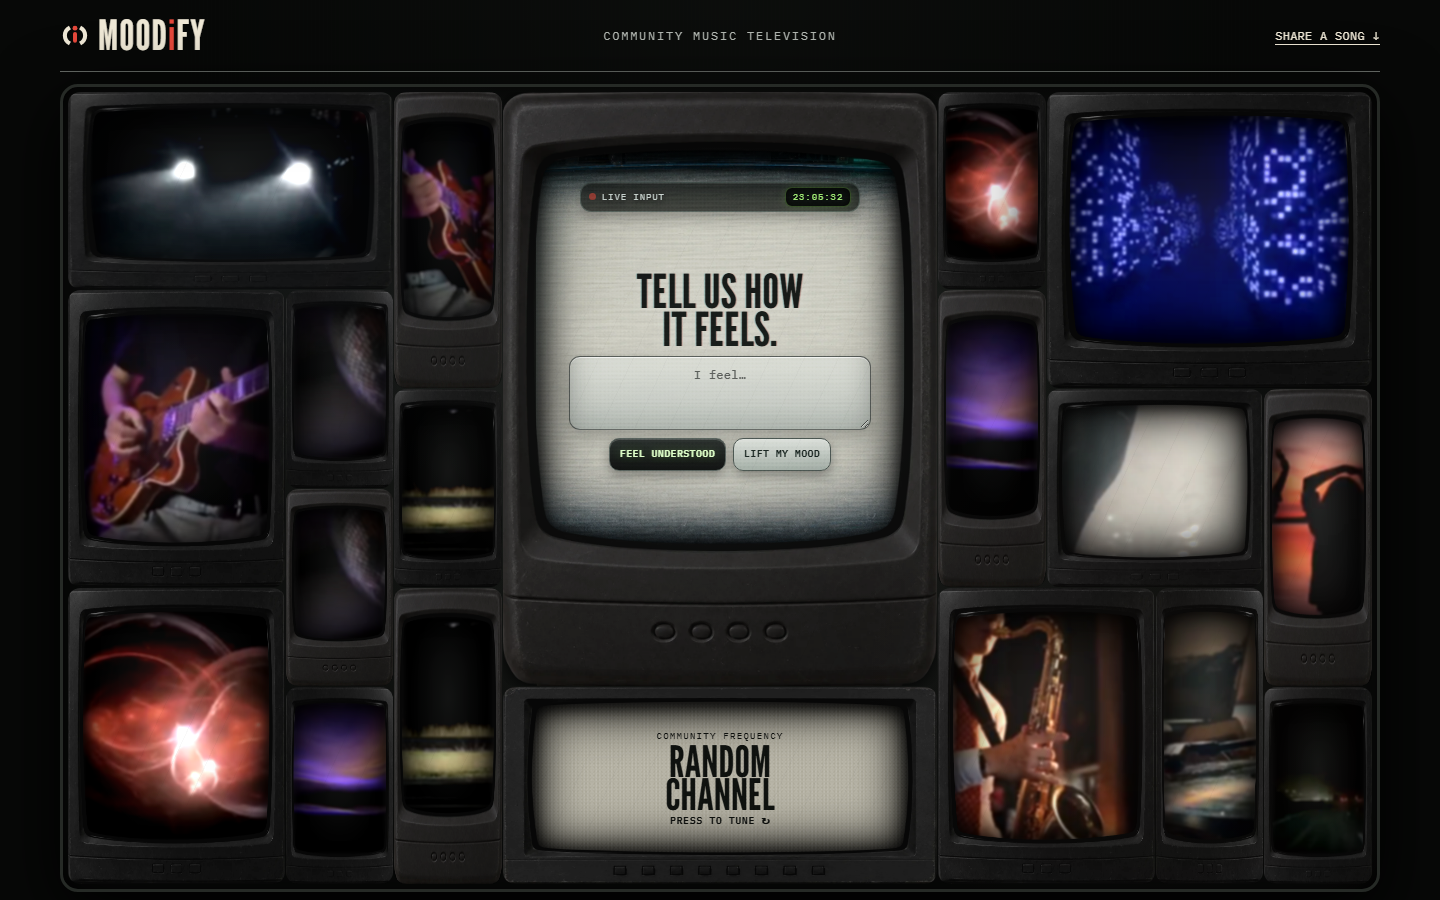
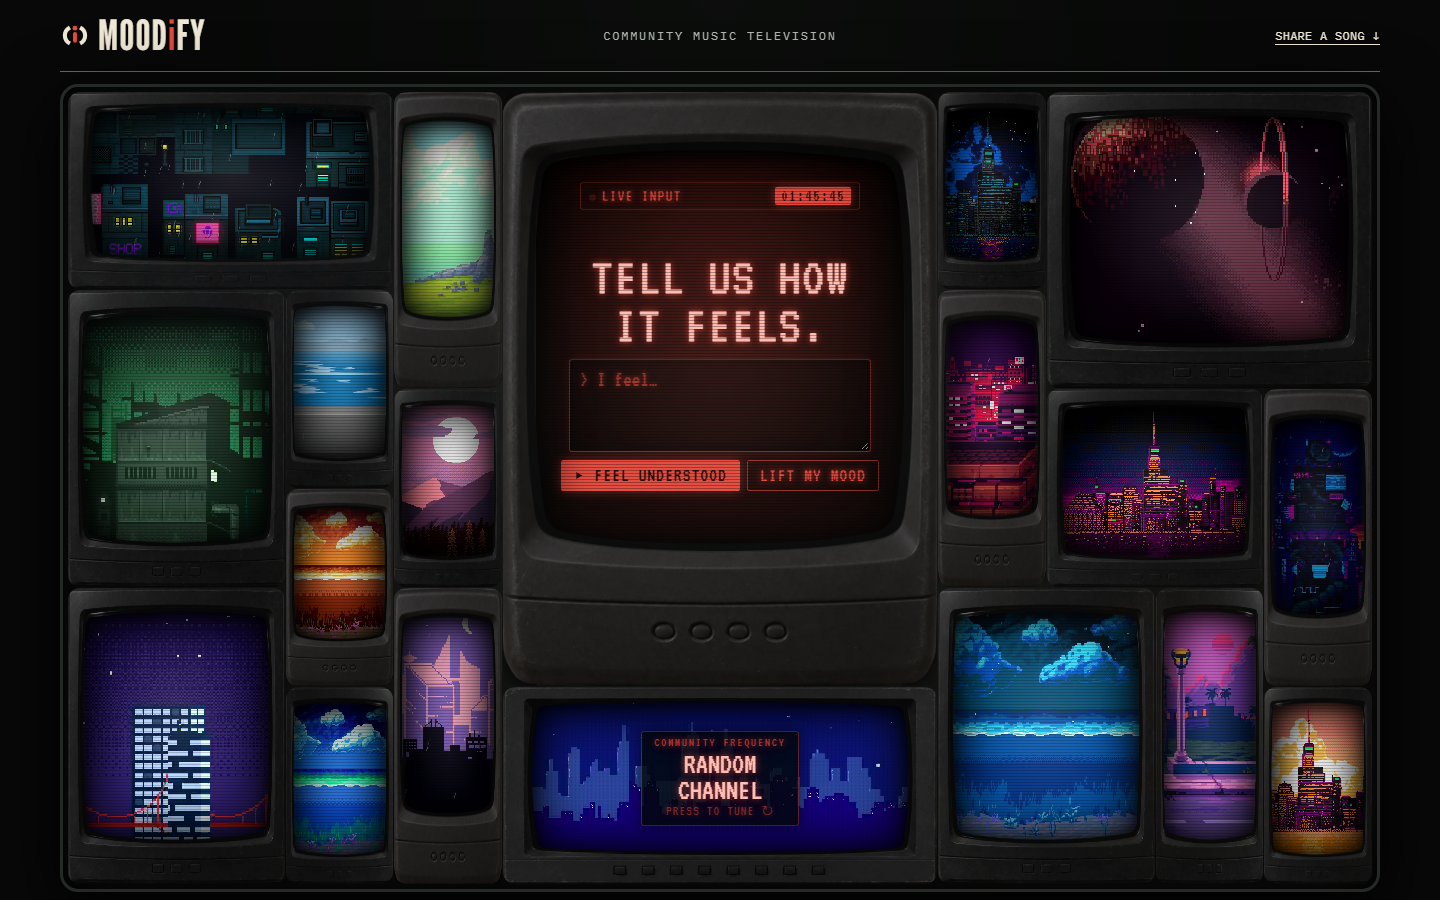
Update README for the pixel-art wall, phone layout and free model
Adds a section on the TV wall with a phone screenshot, describes the one-card phone form and the 10-second free-model cap, refreshes the screenshots and drops the History section.

diff --git a/README.md b/README.md
@@ -6,9 +6,9 @@
 
 Live at **[moodify.eshita.dev](https://moodify.eshita.dev)**
 
-MoodIfy is community music television. People share a song by pasting a link (YouTube, Spotify, SoundCloud or anywhere else), flip the tape and write what the song holds for them. When you describe how you feel, MoodIfy reads your mood and finds the shared song whose note fits your words best. You can ask to *feel understood* (same mood) or to *lift your mood* (a gentler mood one step away).
+MoodIfy is community music television. People share a song by pasting a link (YouTube, Spotify, SoundCloud or anywhere else) and writing what the song holds for them. When you describe how you feel, MoodIfy reads your mood and finds the shared song whose note fits your words best. You can ask to *feel understood* (same mood) or to *lift your mood* (a gentler mood one step away).
 
-![The MoodIfy TV wall: a check-in screen surrounded by sets playing music clips](docs/screenshot.png)
+![The MoodIfy TV wall: a red terminal check-in screen surrounded by sets playing animated pixel-art scenes](docs/screenshot.png)
 
 ## How it works
 
@@ -21,7 +21,7 @@ your text ──► crisis check ──► mood reader ──► target mood ─
           (never sent to a model)
 ```
 
-1. **Mood reader.** An OpenRouter model labels the text with one of nine moods (joyful, sad, anxious, angry, lonely, drained, nostalgic, calm, hopeful). Its answer is checked against that fixed list. No key, a timeout, bad JSON or an unknown label all fall back to an offline keyword reader, so the app always answers.
+1. **Mood reader.** A free OpenRouter model labels the text with one of nine moods (joyful, sad, anxious, angry, lonely, drained, nostalgic, calm, hopeful). Its answer is checked against that fixed list. No key, bad JSON, an unknown label or no answer within 10 seconds all fall back to an offline keyword reader, so the app always answers quickly. Fallbacks are logged with their reason, never with the person's text.
 2. **Retrieval.** Songs are filtered to the target mood, then ranked by TF-IDF cosine similarity between your text and each note. "Can't sleep, mind racing at 2am" finds the note written about 2am anxiety, not just any anxious song. Community songs win ties over starter ones, and you won't see the same one twice until the pool runs out.
 3. **Safety first.** Text that mentions self-harm or suicide is never sent to a model. The response leads with a support message and free helplines (Tele-MANAS 14416 in India, findahelpline.com elsewhere).
 
@@ -29,7 +29,7 @@ your text ──► crisis check ──► mood reader ──► target mood ─
 
 ![Side A of the cassette: paste a song link, then flip the tape](docs/share.png)
 
-Side A takes the link, side B the message and an optional name. The link is checked before anything is saved: https only, no passwords in the URL, no IP addresses or localhost. Known music sites are labelled by name, and anything else shows its domain so people can see where a link goes before clicking it. Titles and artists come from each site's public oEmbed endpoint, so nobody has to type them.
+On desktop, side A of the cassette takes the link and side B the message and an optional name. On phones the flip would be cramped, so both sides become one card.  The link is checked before anything is saved: https only, no passwords in the URL, no IP addresses or localhost. Known music sites are labelled by name, and anything else shows its domain so people can see where a link goes before clicking it. Titles and artists come from each site's public oEmbed endpoint, so nobody has to type them.
 
 Every message then goes through layered moderation before it can reach the public wall:
 
@@ -46,6 +46,12 @@ In production `MOODIFY_REQUIRE_MODERATION=1` holds every message if the model ke
 
 A new community app is empty on day one, so MoodIfy ships with **200 starter songs** across all nine moods: Bollywood and Indian indie, K-pop and J-pop, Latin, Afrobeats, French, Pakistani and Brazilian classics, and indie from Mitski to Men I Trust. Each has a short note on when it helps, and they are labelled "MoodIfy starter set" in the API. They are used for matching but never shown on the community wall.
 
+## The TV wall
+
+The wall plays twenty animated pixel-art scenes, all CC0 art from OpenGameArt. `scripts/render_pixel_reel.py` builds each one from its layers: parallax scrolling, rain, twinkling stars and flickering light, scaled up with crisp pixels and joined into one reel that every screen shares, so cuts never go black. No two sets show the same scene at once, and a scene stays on for 2.5 to 4 seconds so the motion is visible. A ticker under the wall crawls through songs people shared. Phones show only the two working sets. Artist credits are in [web/media/clips/SOURCES.md](web/media/clips/SOURCES.md).
+
+<img src="docs/phone.png" alt="MoodIfy on a phone: the check-in terminal and Random Channel" width="260">
+
 ## Evaluation
 
 `python evals/run_eval.py` scores the mood reader on two labelled sets:
@@ -60,13 +66,13 @@ Read this honestly. I wrote the direct set alongside the keyword list, so 100% t
 ## Tests
 
 60 pytest tests cover:
-- the starter set and the mood reader, including every LLM failure mode falling back correctly (mocked transport)
+- the starter set and the mood reader, including every LLM failure mode and a slow model falling back correctly (mocked transport)
 - retrieval ranking and repeat-skipping
 - crisis handling (asserting the model is never called)
 - link safety (schemes, credentials, IPs) and oEmbed lookups
 - moderation failing closed
 - rate limits, wall pagination and the admin endpoints
-- the upgrade from the original database schema
+- the upgrade from the original database schema, and new starter songs reaching existing databases
 
 ## Run it
 
@@ -114,12 +120,7 @@ Interactive docs at `/docs`. Frontend notes are in [docs/frontend-api.md](docs/f
 - The keyword fallback is weak on indirect language (see the eval). With no API key, expect generic matches for subtle text.
 - One mood per message. Mixed feelings ("happy but scared") get the stronger signal.
 - Moderation is only as good as the model behind it; held messages wait for a person to review them.
-
-## History
-
-Started in March 2025 as a hackathon prototype (Streamlit, MySQL and a UiPath email workflow), which grew out of the capsule idea in [Trackify](https://github.com/eshitakundu/Trackify). Rebuilt in October 2026 as a tested FastAPI service with an LLM mood reader, retrieval and evals, then turned into a community wall with song links, moderation and a TV-wall interface. The earlier commits are still in the history.
-
-The TV wall plays CC0 pixel art from OpenGameArt, animated with parallax, rain and flickering light by `scripts/render_pixel_reel.py`. Artist credits are in [web/media/clips/SOURCES.md](web/media/clips/SOURCES.md).
+- The free model is slow and has a daily request limit. When it is slow or out of requests, matching uses the keyword reader.
 
 ## Stack
 
